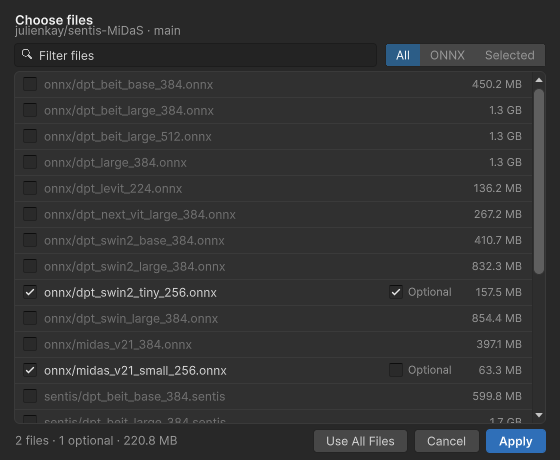
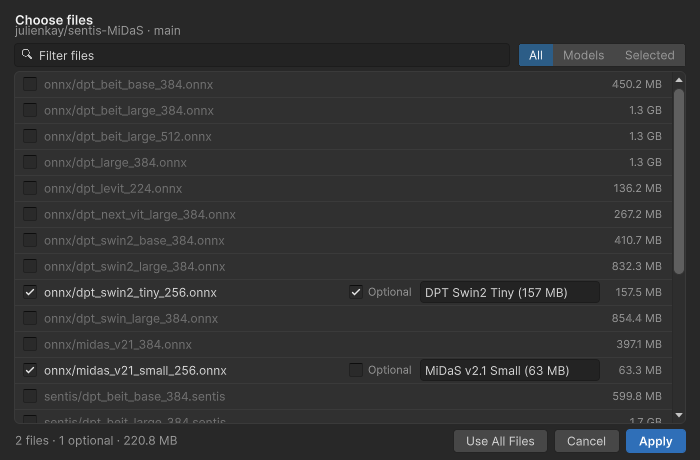
docs: add a guide to designing a package's model API
"Design Your Package's Model API" shows, with MiDaS, which constructors
and factory methods let users load a package's models, pick one in the
Inspector or a game menu, or bring their own model. It follows
from_pretrained in Hugging Face libraries. The manual and maintainer
docs cover labels, HubModelReference, Hub.GetModelFiles, and
Hub.LoadModelFromFile. The file picker is a bit wider for the label
field, and its screenshot is new.

diff --git a/tools.doji.model-hub/Editor/UI/FileSelectionPopup.cs b/tools.doji.model-hub/Editor/UI/FileSelectionPopup.cs
@@ -56,7 +56,7 @@ namespace Doji.AI.ModelHub.Editor
 
         public override Vector2 GetWindowSize()
         {
-            return new Vector2(680f, 460f);
+            return new Vector2(700f, 460f);
         }
 
         public override void OnGUI(Rect rect)

diff --git a/docs/manual/package-model-api.md b/docs/manual/package-model-api.md
@@ -1,0 +1,155 @@
+# Design Your Package's Model API
+
+A package that wraps a model serves three kinds of users:
+
+- users who let AI Model Hub download and load the model
+- users who pick one of the package's model variants, in the Inspector or in a game menu
+- users who bring their own model: a file their app downloaded, or a model asset in their project
+
+One set of constructors and factory methods covers all three. The examples use the MiDaS depth estimation package (`tools.doji.midas`), whose manifest lists several model variants of `julienkay/sentis-MiDaS`.
+
+## Recommended API
+
+```csharp
+public class Midas : IDisposable
+{
+    public const string PackageId = "tools.doji.midas";
+
+    /// The model that loads when the user names none.
+    public static HubModelReference DefaultModel =>
+        new HubModelReference(PackageId, "julienkay/sentis-MiDaS", "onnx/midas_v21_small_256.onnx");
+
+    // A model that is already loaded. Every other way of loading ends here.
+    public Midas(Model model, BackendType backend = BackendType.GPUCompute) { ... }
+
+    // A model asset of the user's own.
+    public Midas(ModelAsset modelAsset, BackendType backend = BackendType.GPUCompute)
+        : this(ModelLoader.Load(modelAsset), backend) { }
+
+    // A file of this package's manifest, or a file path.
+    public static Task<Midas> FromPretrainedAsync(
+        string model = null,
+        BackendType backend = BackendType.GPUCompute,
+        IProgress<DownloadProgress> progress = null,
+        CancellationToken cancellationToken = default) { ... }
+
+    // A choice from the Inspector picker or from Hub.GetModelFiles.
+    public static Task<Midas> FromPretrainedAsync(
+        HubModelReference model,
+        BackendType backend = BackendType.GPUCompute,
+        IProgress<DownloadProgress> progress = null,
+        CancellationToken cancellationToken = default) { ... }
+}
+```
+
+Users then load a model in the way that suits them:
+
+```csharp
+var midas = await Midas.FromPretrainedAsync();                                  // default model
+var tiny  = await Midas.FromPretrainedAsync("onnx/dpt_swin2_tiny_256.onnx");    // another model of the package
+var own   = await Midas.FromPretrainedAsync(Path.Combine(Application.persistentDataPath, "depth.onnx"));
+var asset = new Midas(myModelAsset);                                            // a model asset in the project
+var model = new Midas(ModelLoader.Load(path));                                  // full control
+```
+
+The names follow `from_pretrained` in Hugging Face libraries, which takes a model id or a local folder and downloads only when it has to.
+
+## Load from one string
+
+Decide what a string means in this order:
+
+1. A file that exists: load it with `Hub.LoadModelFromFile`.
+2. Anything else: a file of the package's manifest. Load it with `Hub.LoadModelAsync`, with your package id.
+
+```csharp
+public static async Task<Midas> FromPretrainedAsync(
+    string model = null,
+    BackendType backend = BackendType.GPUCompute,
+    IProgress<DownloadProgress> progress = null,
+    CancellationToken cancellationToken = default)
+{
+    if (model != null && (File.Exists(model) || Path.IsPathRooted(model)))
+    {
+        return new Midas(Hub.LoadModelFromFile(model), backend);
+    }
+
+    var reference = model == null ? DefaultModel : new HubModelReference(PackageId, DefaultModel.RepoId, model);
+    return await FromPretrainedAsync(reference, backend, progress, cancellationToken);
+}
+```
+
+A rooted path that does not exist fails with `FileNotFoundException` instead of a lookup in the manifest. `Hub.LoadModelFromFile` loads `.sentis` files directly. It converts `.onnx` files in the Editor, and in players that have an ONNX converter (`tools.doji.onnx-model-loader`).
+
+## Let users pick a model in the Inspector
+
+Add a `HubModelReference` field with `[HubModel]` and your package id. The Inspector shows a dropdown of the model files your manifest declares, plus **Model asset of your own…**:
+
+![Inspector dropdown that lists the model files of a package](../images/manual/model-hub-model-picker.png)
+
+```csharp
+public class DepthEstimation : MonoBehaviour
+{
+    [HubModel(Midas.PackageId)]
+    public HubModelReference model = Midas.DefaultModel;
+
+    private Midas _midas;
+
+    private async void Start()
+    {
+        _midas = await Midas.FromPretrainedAsync(model);
+    }
+
+    private void OnDestroy()
+    {
+        _midas?.Dispose();
+    }
+}
+```
+
+- An optional file that the project did not turn on shows **(not included)**. Choosing it shows an **Include** button, which turns the file on and starts the download.
+- A file that is not downloaded yet shows **Open AI Model Hub**.
+- **Model asset of your own…** shows a field for a `ModelAsset`. `HubModelReference.LoadAsync` then loads that asset.
+- Without a package id, `[HubModel]` lists the model files of every package and of the project.
+
+Give the files readable names with `label` in the manifest. Without a label, the dropdown shows the path without its extension and without a leading `onnx/` or `sentis/` folder:
+
+```json
+{
+  "version": 1,
+  "models": [
+    {
+      "id": "julienkay/sentis-MiDaS",
+      "files": [
+        { "path": "onnx/midas_v21_small_256.onnx", "label": "MiDaS v2.1 Small (63 MB)" },
+        { "path": "onnx/dpt_swin2_tiny_256.onnx", "optional": true, "label": "DPT Swin2 Tiny (157 MB)" }
+      ]
+    }
+  ]
+}
+```
+
+## Let users pick a model at runtime
+
+`Hub.GetModelFilesAsync` lists the model files of a package that the build includes, for example for a settings menu:
+
+```csharp
+IReadOnlyList<HubModelFile> files = await Hub.GetModelFilesAsync(Midas.PackageId);
+foreach (HubModelFile file in files)
+{
+    dropdown.options.Add(new Dropdown.OptionData(file.DisplayName));
+}
+
+var midas = await Midas.FromPretrainedAsync(files[dropdown.value].ToReference());
+```
+
+Optional files that the project did not turn on are not listed, because the build does not have them. `Hub.GetModelFiles` returns the same list without waiting, where the synchronous API works.
+
+## Guidelines
+
+- **Read settings from the model.** Take the input size and other settings from the loaded `Model`, for example `model.inputs[0].shape`, and not from a list of known variants. Then a model the user brings works like the package's own.
+- **Load asynchronously first.** `FromPretrainedAsync` works on every platform and for downloaded models. Pass progress and cancellation through. Add synchronous overloads only as a convenience: they fail on Android and the Web, and before a download.
+- **Pass your package id.** Another package can use the same model with other files. Your package id loads the files your manifest selects.
+- **Do not reload models in property setters.** A setter cannot wait for a download. Let users create a new instance with `FromPretrainedAsync` instead.
+- **Keep the required download small.** Make the default model the only required file, and mark the other variants `optional`. Users who bring their own model do not download what they do not use.
+- **Name the fix in errors.** When loading fails, say which model and file failed, and that the user can include it in `Window > AI Model Hub`.
+- **Make the default public.** `DefaultModel` tells users which file to fetch when they download it themselves: `https://huggingface.co/<repoId>/resolve/main/<repoPath>`.

diff --git a/internal-docs/runtime-loading.md b/internal-docs/runtime-loading.md
@@ -17,7 +17,7 @@ The package writes the loading code once. The project decides delivery (bundle o
 RuntimeRegistry   version, onnxConverterId, packages[]
 RuntimePackageEntry   packageId, packageVersion, models[]
 RuntimeModelEntry   repoId, cacheRepoId, revision, commit, delivery ("bundle" | "download"), files[]
-RuntimeModelFile   repoPath, format ("onnx" | "sentis"), relativePath,
+RuntimeModelFile   repoPath, label, format ("onnx" | "sentis"), relativePath,
                    source {repoPath, etag, size}, companions[], recipeHash, quantization, inputShapes[]
 ```
 
@@ -27,6 +27,7 @@ RuntimeModelFile   repoPath, format ("onnx" | "sentis"), relativePath,
 - `source` and `companions` hold etags and sizes, so players name blobs like the Editor does.
 - `quantization`, `inputShapes`, and `recipeHash` let a player convert an ONNX file with the settings tested in the Editor.
 - `localPath` is `[NonSerialized]`: the Editor catalog sets it, builds never write it.
+- `label` is the manifest's `files[].label`, for `Hub.GetModelFiles` and pickers in players.
 
 A package entry lists only its own owner's selection. The shared import may hold more files for other owners.
 
@@ -45,6 +46,13 @@ A package entry lists only its own owner's selection. The shared import may hold
 - With a package id, only that package's entry counts.
 - Without one, the first package (ordered by id) whose entry has the repository and the file wins. Two packages that select different files of one repository both work without a package id. Pass one only when the same path must resolve to a specific owner.
 - A miss throws `FileNotFoundException`. With no entry: "has no model". With an entry: "has no file", listing the known files.
+
+## Pickers and files of your own
+
+- `Hub.GetModelFiles(Async)(packageId)` maps the catalog's files to `HubModelFile` (`HubModelFile.FromRegistry`). It lists only what the catalog has: included and set-up files.
+- `HubModelReference` serializes `_packageId`, `_repoId`, `_repoPath`, and `_modelAsset`. A model asset wins over the file fields.
+- The Inspector drawer ([HubModelReferenceDrawer.cs](../tools.doji.model-hub/Editor/UI/HubModelReferenceDrawer.cs)) lists more than the catalog: `HubModelPicker.Build` takes every declared model file from the status report and marks it `Included` (in the catalog), `NotTurnedOn` (optional, not enabled), or `NotSetUp`. Whole-repository dependencies list their imported runtime files. **Include** writes the optional-file selection and starts a background sync.
+- `Hub.LoadModelFromFile` bypasses the registry. ONNX files use `RuntimeModels.OnnxConverter`, else in the Editor `EditorOnnxConverter` (set by `EditorRuntimeCatalog`), and are not cached.
 
 ## Build
 

diff --git a/docs/manual/manifest-reference.md b/docs/manual/manifest-reference.md
@@ -41,13 +41,14 @@ Use `ProjectManifestAsset` when model dependencies need to ship through non-pack
 - `version`: manifest schema version. Current value is `1`.
 - `id`: canonical HuggingFace model identifier. In Hub API terms this is the `repo_id` string such as `owner/name`. The model must be public: AI Model Hub sends no access token, so gated and private models fail to download with a message that says so.
 - `revision`: optional branch, tag, or commit to resolve. Defaults to `main`.
-- `files`: optional exact repo-relative file objects. Omit this field to require every file of the model. If present, each entry has `path` and optional `optional`.
+- `files`: optional exact repo-relative file objects. Omit this field to require every file of the model. If present, each entry has `path`, and optionally `optional` and `label`.
 - `files[].path`: exact repo-relative file path.
 - `files[].optional`: `true` when the project owner may enable that file before download or import. Omitted or `false` means the file is always required once the manifest entry is present.
+- `files[].label`: optional name for a model file in model pickers, such as the `[HubModel]` Inspector dropdown and `HubModelFile.DisplayName`. For example `"Small (63 MB)"`. Leading and trailing spaces are removed, and an empty label counts as none.
 
 Model ids must be unique inside one manifest. File paths must be unique inside one model entry after trimming whitespace and converting `\` to `/`.
 
-AI Model Hub rejects a manifest that contains any other property, or an `optional` value that is not `true` or `false`. A misspelled key would otherwise be ignored, and a model entry that lost its `files` would download the whole repository. The Model Hub window shows the error for the package that owns the manifest.
+AI Model Hub rejects a manifest that contains any other property, an `optional` value that is not `true` or `false`, or a `label` that is not a string. A misspelled key would otherwise be ignored, and a model entry that lost its `files` would download the whole repository. The Model Hub window shows the error for the package that owns the manifest.
 
 ## All Files
 

diff --git a/docs/manual/import-cache-runtime.md b/docs/manual/import-cache-runtime.md
@@ -204,6 +204,16 @@ Model model = await repo.LoadModelAsync("onnx/model.onnx");
 
 `repo.Files` lists the model files the project uses, and `repo.Commit` is the commit the build uses.
 
+### List a package's models
+
+`Hub.GetModelFilesAsync(packageId)` lists the model files of one package that the project includes, for example for a model picker. Each `HubModelFile` has `RepoId`, `RepoPath`, `DisplayName` (the manifest `label`, else the path), and `ToReference()`. Optional files the project did not turn on are not listed.
+
+A `HubModelReference` stores one choice, either a package's file or a `ModelAsset` of your own, and loads it with `LoadAsync`. Add `[HubModel("package.id")]` to a `HubModelReference` field to show a dropdown in the Inspector. See [Design Your Package's Model API](package-model-api.md).
+
+### Load a file of your own
+
+`Hub.LoadModelFromFile(path)` loads a model file that did not come through AI Model Hub, for example one your app downloaded. `.sentis` files load directly. `.onnx` files are converted in the Editor, and in players with `tools.doji.onnx-model-loader` or the converter set with `Hub.RegisterOnnxConverter`.
+
 ### Synchronous loading
 
 `Hub.LoadModel(repoId, repoPath)` and `Hub.FromPretrained(repoId)` do not wait. They work in the Editor, for bundled models on Windows, macOS, Linux, and iOS, and for downloaded models that are already on the device. On Android and the Web, and for models that are not downloaded yet, they throw an error that points to the async method.
@@ -224,3 +234,4 @@ Model model = await Hub.LoadModelAsync("com.example.depth", "julienkay/sentis-Mi
 | `AI Model Hub model '<repo>' has no file '<path>'` | The manifest does not select that file. The message lists the files it does select. |
 | `... is downloaded on first use. Use Hub.LoadModelAsync` | A synchronous call for a model that is not on the device yet. |
 | `... needs an ONNX converter` | A player downloads an `.onnx` file but `tools.doji.onnx-model-loader` is not installed. |
+| `'<path>' is an ONNX file, and this player has no ONNX converter` | `Hub.LoadModelFromFile` got an `.onnx` file in a player without a converter. |

diff --git a/internal-docs/manifest-schema.md b/internal-docs/manifest-schema.md
@@ -58,6 +58,7 @@ Field intent:
 - `files`: optional list of exact repo-relative file objects. Omit or leave empty for whole-repository scope.
 - `files[].path`: exact repo-relative file path selected by this dependency owner
 - `files[].optional`: whether the path is project-selectable instead of always required; default/omitted means `false`
+- `files[].label`: display name for model pickers; trimmed, empty means none. It does not change the selection or its hash. Editor writers emit it last and drop empty labels (`ManifestJson.StripEmptyLabels`), because `JsonUtility` writes every field
 
 Canonical HuggingFace model id definition:
 
@@ -71,7 +72,7 @@ Manifest meaning:
 - one entry resolves one upstream repo revision to one concrete commit
 - one entry owns one canonical repo id for one manifest owner
 - duplicate `id` values inside one manifest are invalid
-- unknown properties at root, model, or file level are invalid, and a non-boolean `optional` is invalid; a silently ignored key can widen a file-selective entry into a whole-repo download. The legacy `optionalFiles` key gets an error with a migration hint
+- unknown properties at root, model, or file level are invalid, a non-boolean `optional` and a non-string `label` are invalid; a silently ignored key can widen a file-selective entry into a whole-repo download. The legacy `optionalFiles` key gets an error with a migration hint
 - optional model variants must not be modeled as duplicate manifest rows with same `id`
 - one entry may depend on whole repo, on explicit always-required files, or on required files plus optional files inside that repo
 - the extension decides each selected file's format: `.onnx` is converted, `.sentis` is used as downloaded; see [import-and-generated-assets.md](import-and-generated-assets.md)

diff --git a/internal-docs/testing.md b/internal-docs/testing.md
@@ -45,7 +45,7 @@ Manifest and discovery:
 - `tools.doji.model-hub/Tests/Editor/Discovery/PackageDiscoveryTests.cs`
   - manifest parse and normalization
   - duplicate id validation
-  - selected-file and optional-file preservation
+  - selected-file and optional-file preservation, file labels
   - owner-scoped optional file override application
   - project settings manifest serialization inputs
 
@@ -143,6 +143,7 @@ Runtime loading and builds:
   - `EnsureAvailableAsync` downloads every file
   - unknown models and package-scoped lookup
   - registry round trip drops Editor paths and refuses newer versions
+  - `Hub.GetModelFiles` per package, display-name fallback, `HubModelReference` loading, `Hub.LoadModelFromFile`
 - `tools.doji.model-hub/Tests/Editor/RuntimeLocator/RuntimeLocatorPathTests.cs`
   - runtime path mapping matches the build layout
 - `tools.doji.model-hub/Tests/Editor/Build/RuntimeRegistryBuilderTests.cs`
@@ -150,9 +151,13 @@ Runtime loading and builds:
   - download entries carry commit, etags, companions, and recipe
   - models a build cannot deliver are reported, with different text for not downloaded and not set up
   - delivery per repository, cache spelling of the repository id
+  - manifest file labels reach the registry
 
 Editor UI and manifest editing:
 
+- `tools.doji.model-hub/Tests/Editor/UI/HubModelPickerTests.cs`
+  - Inspector picker lists declared model files with labels and included / not turned on / not set up state
+  - manifest JSON from the Inspector keeps labels and omits empty ones
 - `tools.doji.model-hub/Tests/Editor/UI/AddModelPopupTests.cs`
   - mixed and model-less repositories need a file selection; an unknown format does not block adding
 - `tools.doji.model-hub/Tests/Editor/UI/ManifestModelEntryTests.cs`

diff --git a/docs/manual/getting-started-package-maintainers.md b/docs/manual/getting-started-package-maintainers.md
@@ -85,6 +85,8 @@ The `optional` flag does not mean "download if present." It means "show this sel
 
 If every model file in a dependency is optional, Model Hub shows `Choose files` until the project turns on at least one.
 
+Give model files a `label` to name them in model pickers, for example `"label": "MiDaS v2.1 Small (63 MB)"`. See [Let users pick a model in the Inspector](package-model-api.md#let-users-pick-a-model-in-the-inspector).
+
 ## Authoring In Unity
 
 Select a writable `model-hub-manifest.json` package asset in Unity to use the focused manifest Inspector. Installed package cache entries are read-only until the package source is embedded or otherwise made local and writable.
@@ -108,5 +110,7 @@ Model model = await Hub.LoadModelAsync("onnx-community/tiny-clip-test-ONNX", "on
 ```
 
 Use `LoadModelAsync`: it works on every platform and for both delivery modes. If another package uses the same model, pass your package id as the first argument. See [Load models at runtime](import-cache-runtime.md#load-models-at-runtime).
+
+[Design Your Package's Model API](package-model-api.md) shows which constructors and methods to offer, so users can load your package's models, pick a variant in the Inspector, or bring their own model.
 
 Use [Manifest Schema](manifest-reference.md) for field-level rules and validation details.

diff --git a/docs/manual/editor-surfaces.md b/docs/manual/editor-surfaces.md
@@ -210,12 +210,13 @@ If AI Model Hub already knows that a model id does not exist on Hugging Face, Mo
 
 ### File picker
 
-![File picker for julienkay/sentis-MiDaS. Two ONNX files are checked; one of them is marked Optional. The footer shows 2 files, 1 optional, and the total size.](../images/manual/file-picker.png)
+![File picker for julienkay/sentis-MiDaS. Two ONNX files are checked, each with a label; one of them is marked Optional. The footer shows 2 files, 1 optional, and the total size.](../images/manual/file-picker.png)
 
 The file picker lists the model's files at the selected revision, with their sizes:
 
 - Check the files the manifest needs. With nothing checked, the manifest uses every file of the model.
 - **Optional** appears on checked files. Optional files are off until a project turns them on in Model Hub.
+- **Label** appears on checked model files. Model pickers show it instead of the path, for example `MiDaS v2.1 Small (63 MB)`.
 - Filter with the search field, or show **All**, **Models** (`.onnx` and `.sentis` files), or **Selected** files.
 - The footer shows the number of files, how many are optional, and their total size. **Use All Files** clears the selection.
 - If a selected file does not exist at the revision, the picker warns about it.

diff --git a/tools.doji.model-hub/CHANGELOG.md b/tools.doji.model-hub/CHANGELOG.md
@@ -23,6 +23,8 @@ and this project adheres to [Semantic Versioning](http://semver.org/spec/v2.0.0.
 - **Pull into Project** copies a model's Sentis files into `Assets/StreamingAssets/model-hub/models`.
 - Model Hub and Add Model show the model format.
 - Converted models are reused across Inference Engine updates of the same format generation (`SentisCompatibility`).
+- Manifest files can set a `label`, the name model pickers show. The file picker in the manifest Inspector edits it.
+- `HubModelReference` and `[HubModel("package.id")]`: an Inspector dropdown of a package's model files, with **Include** for optional files, or a model asset of your own. `Hub.GetModelFiles(Async)` lists a package's model files at runtime, and `Hub.LoadModelFromFile` loads a `.sentis` or `.onnx` file of your own.
 - `HubStorage` lists and deletes converted models and old Android copies of bundled models. AI Model Hub never deletes them on its own.
 
 ### Changed

diff --git a/internal-docs/editor-model-hub-ui.md b/internal-docs/editor-model-hub-ui.md
@@ -248,6 +248,7 @@ Those features should reuse the repo-level item model instead of reintroducing d
 - one `Model ID` field per row; `ManifestModelEntry.TryParseModelId` accepts `owner/name` or a Hugging Face URL
 - revision field with a `main` placeholder; authored text is preserved (see Revision Semantics)
 - `Files` opens `FileSelectionPopup`, enabled only when the row's model id and revision are known to exist
+- `FileSelectionPopup` keeps each file's `optional` flag and `label`; the label field shows on checked model files only
 - `Apply` and `Revert`; inspectors ask about unapplied edits when they close (`ManifestInspectorUnsavedChanges`)
 - read-only stores show labels, a `Read-only` tag, and an embed hint
 

diff --git a/docs/index.md b/docs/index.md
@@ -8,6 +8,7 @@ AI Model Hub is not affiliated with Hugging Face.
 
 - [Getting Started](manual/getting-started.md)
 - [For Package Maintainers](manual/getting-started-package-maintainers.md)
+- [Design Your Package's Model API](manual/package-model-api.md)
 - [For Unity Project Users](manual/getting-started-project-users.md)
 - [Manifest Schema](manual/manifest-reference.md)
 - [Editor Surfaces](manual/editor-surfaces.md)
